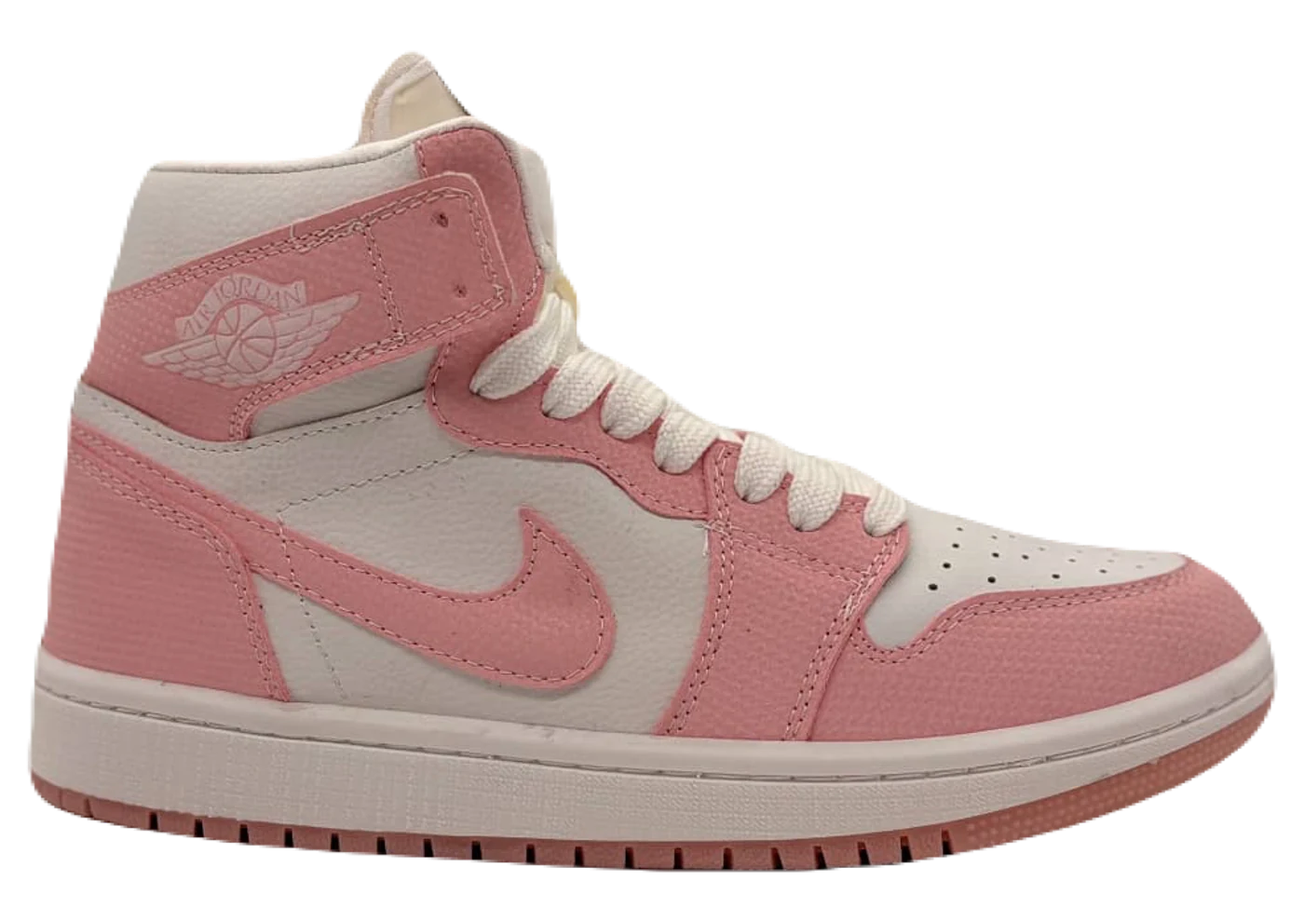
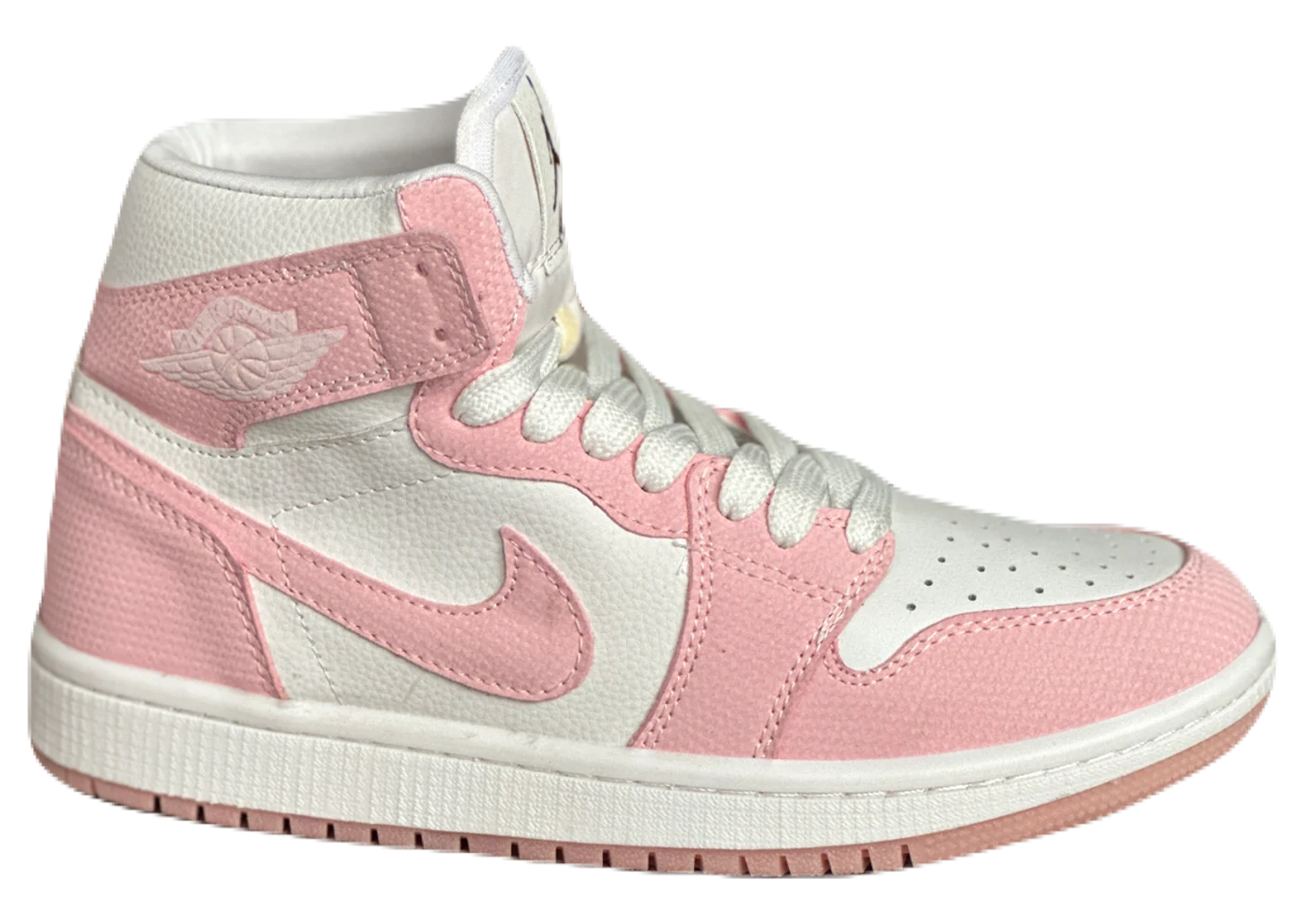
Swap the three hero shoes for the client's new shots
Jordan keeps its card with a cleaner shot of the same shoe; the
Cloudtilt and the V2K give way to a Golden Goose Super-Star and a
New Balance 530, with the labels and headings to match.

All three arrived as clean cut-outs — checked before use, since one
looked like it carried a baked dark background and that would have
put a black rectangle on the glass pane. It was the viewer drawing
transparency as black: measured, the alpha is 75-88% fully clear
with a fully opaque shoe and a thin feathered edge, and composited
on the pane's own white all three sit clean.

No change to make-hero-photos.js beyond the source list — the trim
and the common canvas handle these the same as the last three.

diff --git a/download-version/index.html b/download-version/index.html
@@ -604,16 +604,16 @@ Hero Area
                                 <div class="row align-items-center">
                                     <div class="col-lg-6">
                                         <div class="hero-style6">
-                                            <span class="sub-title" data-ani="slideinleft" data-ani-delay="0.2s">کتونی نایک وی۲کی ران</span>
+                                            <span class="sub-title" data-ani="slideinleft" data-ani-delay="0.2s">کتونی نیوبالانس ۵۳۰</span>
                                             <h1 class="hero-title" data-ani="slideinleft" data-ani-delay="0.4s">
-                                                کتونی نایک وی۲کی ران </h1>
+                                                کتونی نیوبالانس ۵۳۰ </h1>
                                             <div class="btn-group" data-ani="slideinup" data-ani-delay="0.7s"><a href="shop.html" class="th-btn th-icon">خرید کنید</a>
                                             </div>
                                         </div>
                                     </div>
                                     <div class="col-lg-6">
                                         <div class="hero-img" data-ani="slideinrighthero" data-ani-delay="0.8s">
-                                            <img src="assets/img/hero/vikyplus-hero-v2k.webp" alt="Image">
+                                            <img src="assets/img/hero/vikyplus-hero-nb530.webp" alt="Image">
                                             <div class="discount-wrapp style2">
                                                 <div class="discount-tag">
                                                     <svg class="vp-burst" viewBox="0 0 150 150" aria-hidden="true"><defs><linearGradient id="vp-burst-gold" x1="0" y1="0" x2="0" y2="1"><stop offset="0%" stop-color="#C0972F"></stop><stop offset="100%" stop-color="#E3B54A"></stop></linearGradient></defs><path fill="url(#vp-burst-gold)" d="M 75,3 C 80.73,3 85.7,14.57 92.19,16.47 C 98.67,18.38 109.11,11.33 113.93,14.43 C 118.75,17.53 116.67,29.94 121.1,35.05 C 125.53,40.16 138.11,39.88 140.49,45.09 C 142.87,50.3 134.42,59.63 135.38,66.32 C 136.34,73.01 147.08,79.58 146.27,85.25 C 145.45,90.92 133.3,94.19 130.49,100.34 C 127.68,106.49 133.17,117.82 129.41,122.15 C 125.66,126.48 113.67,122.66 107.98,126.32 C 102.29,129.97 100.78,142.47 95.28,144.08 C 89.79,145.7 81.76,136 75,136 C 68.24,136 60.21,145.7 54.72,144.08 C 49.22,142.47 47.71,129.97 42.02,126.32 C 36.33,122.66 24.34,126.48 20.59,122.15 C 16.83,117.82 22.32,106.49 19.51,100.34 C 16.7,94.19 4.55,90.92 3.73,85.25 C 2.92,79.58 13.66,73.01 14.62,66.32 C 15.58,59.63 7.13,50.3 9.51,45.09 C 11.89,39.88 24.47,40.16 28.9,35.05 C 33.33,29.94 31.25,17.53 36.07,14.43 C 40.89,11.33 51.33,18.38 57.81,16.47 C 64.3,14.57 69.27,3 75,3 Z"></path><text class="vp-burst-num" x="75" y="72">25%</text><text class="vp-burst-off" x="75" y="98">OFF</text></svg>
@@ -664,16 +664,16 @@ Hero Area
                                 <div class="row align-items-center">
                                     <div class="col-lg-6">
                                         <div class="hero-style6">
-                                            <span class="sub-title" data-ani="slideinleft" data-ani-delay="0.2s">کتونی اون کلادتیلت</span>
+                                            <span class="sub-title" data-ani="slideinleft" data-ani-delay="0.2s">کتونی گلدن گوز سوپراستار</span>
                                             <h1 class="hero-title" data-ani="slideinleft" data-ani-delay="0.4s">
-                                                کتونی اون کلادتیلت </h1>
+                                                کتونی گلدن گوز سوپراستار </h1>
                                             <div class="btn-group" data-ani="slideinup" data-ani-delay="0.7s"><a href="shop.html" class="th-btn th-icon">خرید کنید</a>
                                             </div>
                                         </div>
                                     </div>
                                     <div class="col-lg-6">
                                         <div class="hero-img" data-ani="slideinrighthero" data-ani-delay="0.8s">
-                                            <img src="assets/img/hero/vikyplus-hero-cloudtilt.webp" alt="Image">
+                                            <img src="assets/img/hero/vikyplus-hero-goldengoose.webp" alt="Image">
                                             <div class="discount-wrapp style2">
                                                 <div class="discount-tag">
                                                     <svg class="vp-burst" viewBox="0 0 150 150" aria-hidden="true"><defs><linearGradient id="vp-burst-gold" x1="0" y1="0" x2="0" y2="1"><stop offset="0%" stop-color="#C0972F"></stop><stop offset="100%" stop-color="#E3B54A"></stop></linearGradient></defs><path fill="url(#vp-burst-gold)" d="M 75,3 C 80.73,3 85.7,14.57 92.19,16.47 C 98.67,18.38 109.11,11.33 113.93,14.43 C 118.75,17.53 116.67,29.94 121.1,35.05 C 125.53,40.16 138.11,39.88 140.49,45.09 C 142.87,50.3 134.42,59.63 135.38,66.32 C 136.34,73.01 147.08,79.58 146.27,85.25 C 145.45,90.92 133.3,94.19 130.49,100.34 C 127.68,106.49 133.17,117.82 129.41,122.15 C 125.66,126.48 113.67,122.66 107.98,126.32 C 102.29,129.97 100.78,142.47 95.28,144.08 C 89.79,145.7 81.76,136 75,136 C 68.24,136 60.21,145.7 54.72,144.08 C 49.22,142.47 47.71,129.97 42.02,126.32 C 36.33,122.66 24.34,126.48 20.59,122.15 C 16.83,117.82 22.32,106.49 19.51,100.34 C 16.7,94.19 4.55,90.92 3.73,85.25 C 2.92,79.58 13.66,73.01 14.62,66.32 C 15.58,59.63 7.13,50.3 9.51,45.09 C 11.89,39.88 24.47,40.16 28.9,35.05 C 33.33,29.94 31.25,17.53 36.07,14.43 C 40.89,11.33 51.33,18.38 57.81,16.47 C 64.3,14.57 69.27,3 75,3 Z"></path><text class="vp-burst-num" x="75" y="72">25%</text><text class="vp-burst-off" x="75" y="98">OFF</text></svg>
@@ -694,16 +694,16 @@ Hero Area
                                 <div class="row align-items-center">
                                     <div class="col-lg-6">
                                         <div class="hero-style6">
-                                            <span class="sub-title" data-ani="slideinleft" data-ani-delay="0.2s">کتونی نایک وی۲کی ران</span>
+                                            <span class="sub-title" data-ani="slideinleft" data-ani-delay="0.2s">کتونی نیوبالانس ۵۳۰</span>
                                             <h1 class="hero-title" data-ani="slideinleft" data-ani-delay="0.4s">
-                                                کتونی نایک وی۲کی ران </h1>
+                                                کتونی نیوبالانس ۵۳۰ </h1>
                                             <div class="btn-group" data-ani="slideinup" data-ani-delay="0.7s"><a href="shop.html" class="th-btn th-icon">خرید کنید</a>
                                             </div>
                                         </div>
                                     </div>
                                     <div class="col-lg-6">
                                         <div class="hero-img" data-ani="slideinrighthero" data-ani-delay="0.8s">
-                                            <img src="assets/img/hero/vikyplus-hero-v2k.webp" alt="Image">
+                                            <img src="assets/img/hero/vikyplus-hero-nb530.webp" alt="Image">
                                             <div class="discount-wrapp style2">
                                                 <div class="discount-tag">
                                                     <svg class="vp-burst" viewBox="0 0 150 150" aria-hidden="true"><defs><linearGradient id="vp-burst-gold" x1="0" y1="0" x2="0" y2="1"><stop offset="0%" stop-color="#C0972F"></stop><stop offset="100%" stop-color="#E3B54A"></stop></linearGradient></defs><path fill="url(#vp-burst-gold)" d="M 75,3 C 80.73,3 85.7,14.57 92.19,16.47 C 98.67,18.38 109.11,11.33 113.93,14.43 C 118.75,17.53 116.67,29.94 121.1,35.05 C 125.53,40.16 138.11,39.88 140.49,45.09 C 142.87,50.3 134.42,59.63 135.38,66.32 C 136.34,73.01 147.08,79.58 146.27,85.25 C 145.45,90.92 133.3,94.19 130.49,100.34 C 127.68,106.49 133.17,117.82 129.41,122.15 C 125.66,126.48 113.67,122.66 107.98,126.32 C 102.29,129.97 100.78,142.47 95.28,144.08 C 89.79,145.7 81.76,136 75,136 C 68.24,136 60.21,145.7 54.72,144.08 C 49.22,142.47 47.71,129.97 42.02,126.32 C 36.33,122.66 24.34,126.48 20.59,122.15 C 16.83,117.82 22.32,106.49 19.51,100.34 C 16.7,94.19 4.55,90.92 3.73,85.25 C 2.92,79.58 13.66,73.01 14.62,66.32 C 15.58,59.63 7.13,50.3 9.51,45.09 C 11.89,39.88 24.47,40.16 28.9,35.05 C 33.33,29.94 31.25,17.53 36.07,14.43 C 40.89,11.33 51.33,18.38 57.81,16.47 C 64.3,14.57 69.27,3 75,3 Z"></path><text class="vp-burst-num" x="75" y="72">25%</text><text class="vp-burst-off" x="75" y="98">OFF</text></svg>
@@ -754,16 +754,16 @@ Hero Area
                                 <div class="row align-items-center">
                                     <div class="col-lg-6">
                                         <div class="hero-style6">
-                                            <span class="sub-title" data-ani="slideinleft" data-ani-delay="0.2s">کتونی اون کلادتیلت</span>
+                                            <span class="sub-title" data-ani="slideinleft" data-ani-delay="0.2s">کتونی گلدن گوز سوپراستار</span>
                                             <h1 class="hero-title" data-ani="slideinleft" data-ani-delay="0.4s">
-                                                کتونی اون کلادتیلت </h1>
+                                                کتونی گلدن گوز سوپراستار </h1>
                                             <div class="btn-group" data-ani="slideinup" data-ani-delay="0.7s"><a href="shop.html" class="th-btn th-icon">خرید کنید</a>
                                             </div>
                                         </div>
                                     </div>
                                     <div class="col-lg-6">
                                         <div class="hero-img" data-ani="slideinrighthero" data-ani-delay="0.8s">
-                                            <img src="assets/img/hero/vikyplus-hero-cloudtilt.webp" alt="Image">
+                                            <img src="assets/img/hero/vikyplus-hero-goldengoose.webp" alt="Image">
                                             <div class="discount-wrapp style2">
                                                 <div class="discount-tag">
                                                     <svg class="vp-burst" viewBox="0 0 150 150" aria-hidden="true"><defs><linearGradient id="vp-burst-gold" x1="0" y1="0" x2="0" y2="1"><stop offset="0%" stop-color="#C0972F"></stop><stop offset="100%" stop-color="#E3B54A"></stop></linearGradient></defs><path fill="url(#vp-burst-gold)" d="M 75,3 C 80.73,3 85.7,14.57 92.19,16.47 C 98.67,18.38 109.11,11.33 113.93,14.43 C 118.75,17.53 116.67,29.94 121.1,35.05 C 125.53,40.16 138.11,39.88 140.49,45.09 C 142.87,50.3 134.42,59.63 135.38,66.32 C 136.34,73.01 147.08,79.58 146.27,85.25 C 145.45,90.92 133.3,94.19 130.49,100.34 C 127.68,106.49 133.17,117.82 129.41,122.15 C 125.66,126.48 113.67,122.66 107.98,126.32 C 102.29,129.97 100.78,142.47 95.28,144.08 C 89.79,145.7 81.76,136 75,136 C 68.24,136 60.21,145.7 54.72,144.08 C 49.22,142.47 47.71,129.97 42.02,126.32 C 36.33,122.66 24.34,126.48 20.59,122.15 C 16.83,117.82 22.32,106.49 19.51,100.34 C 16.7,94.19 4.55,90.92 3.73,85.25 C 2.92,79.58 13.66,73.01 14.62,66.32 C 15.58,59.63 7.13,50.3 9.51,45.09 C 11.89,39.88 24.47,40.16 28.9,35.05 C 33.33,29.94 31.25,17.53 36.07,14.43 C 40.89,11.33 51.33,18.38 57.81,16.47 C 64.3,14.57 69.27,3 75,3 Z"></path><text class="vp-burst-num" x="75" y="72">25%</text><text class="vp-burst-off" x="75" y="98">OFF</text></svg>

diff --git a/download-version/shoe-shop-rtl.html b/download-version/shoe-shop-rtl.html
@@ -604,16 +604,16 @@ Hero Area
                                 <div class="row align-items-center">
                                     <div class="col-lg-6">
                                         <div class="hero-style6">
-                                            <span class="sub-title" data-ani="slideinleft" data-ani-delay="0.2s">کتونی نایک وی۲کی ران</span>
+                                            <span class="sub-title" data-ani="slideinleft" data-ani-delay="0.2s">کتونی نیوبالانس ۵۳۰</span>
                                             <h1 class="hero-title" data-ani="slideinleft" data-ani-delay="0.4s">
-                                                کتونی نایک وی۲کی ران </h1>
+                                                کتونی نیوبالانس ۵۳۰ </h1>
                                             <div class="btn-group" data-ani="slideinup" data-ani-delay="0.7s"><a href="shop.html" class="th-btn th-icon">خرید کنید</a>
                                             </div>
                                         </div>
                                     </div>
                                     <div class="col-lg-6">
                                         <div class="hero-img" data-ani="slideinrighthero" data-ani-delay="0.8s">
-                                            <img src="assets/img/hero/vikyplus-hero-v2k.webp" alt="Image">
+                                            <img src="assets/img/hero/vikyplus-hero-nb530.webp" alt="Image">
                                             <div class="discount-wrapp style2">
                                                 <div class="discount-tag">
                                                     <svg class="vp-burst" viewBox="0 0 150 150" aria-hidden="true"><defs><linearGradient id="vp-burst-gold" x1="0" y1="0" x2="0" y2="1"><stop offset="0%" stop-color="#C0972F"></stop><stop offset="100%" stop-color="#E3B54A"></stop></linearGradient></defs><path fill="url(#vp-burst-gold)" d="M 75,3 C 80.73,3 85.7,14.57 92.19,16.47 C 98.67,18.38 109.11,11.33 113.93,14.43 C 118.75,17.53 116.67,29.94 121.1,35.05 C 125.53,40.16 138.11,39.88 140.49,45.09 C 142.87,50.3 134.42,59.63 135.38,66.32 C 136.34,73.01 147.08,79.58 146.27,85.25 C 145.45,90.92 133.3,94.19 130.49,100.34 C 127.68,106.49 133.17,117.82 129.41,122.15 C 125.66,126.48 113.67,122.66 107.98,126.32 C 102.29,129.97 100.78,142.47 95.28,144.08 C 89.79,145.7 81.76,136 75,136 C 68.24,136 60.21,145.7 54.72,144.08 C 49.22,142.47 47.71,129.97 42.02,126.32 C 36.33,122.66 24.34,126.48 20.59,122.15 C 16.83,117.82 22.32,106.49 19.51,100.34 C 16.7,94.19 4.55,90.92 3.73,85.25 C 2.92,79.58 13.66,73.01 14.62,66.32 C 15.58,59.63 7.13,50.3 9.51,45.09 C 11.89,39.88 24.47,40.16 28.9,35.05 C 33.33,29.94 31.25,17.53 36.07,14.43 C 40.89,11.33 51.33,18.38 57.81,16.47 C 64.3,14.57 69.27,3 75,3 Z"></path><text class="vp-burst-num" x="75" y="72">25%</text><text class="vp-burst-off" x="75" y="98">OFF</text></svg>
@@ -664,16 +664,16 @@ Hero Area
                                 <div class="row align-items-center">
                                     <div class="col-lg-6">
                                         <div class="hero-style6">
-                                            <span class="sub-title" data-ani="slideinleft" data-ani-delay="0.2s">کتونی اون کلادتیلت</span>
+                                            <span class="sub-title" data-ani="slideinleft" data-ani-delay="0.2s">کتونی گلدن گوز سوپراستار</span>
                                             <h1 class="hero-title" data-ani="slideinleft" data-ani-delay="0.4s">
-                                                کتونی اون کلادتیلت </h1>
+                                                کتونی گلدن گوز سوپراستار </h1>
                                             <div class="btn-group" data-ani="slideinup" data-ani-delay="0.7s"><a href="shop.html" class="th-btn th-icon">خرید کنید</a>
                                             </div>
                                         </div>
                                     </div>
                                     <div class="col-lg-6">
                                         <div class="hero-img" data-ani="slideinrighthero" data-ani-delay="0.8s">
-                                            <img src="assets/img/hero/vikyplus-hero-cloudtilt.webp" alt="Image">
+                                            <img src="assets/img/hero/vikyplus-hero-goldengoose.webp" alt="Image">
                                             <div class="discount-wrapp style2">
                                                 <div class="discount-tag">
                                                     <svg class="vp-burst" viewBox="0 0 150 150" aria-hidden="true"><defs><linearGradient id="vp-burst-gold" x1="0" y1="0" x2="0" y2="1"><stop offset="0%" stop-color="#C0972F"></stop><stop offset="100%" stop-color="#E3B54A"></stop></linearGradient></defs><path fill="url(#vp-burst-gold)" d="M 75,3 C 80.73,3 85.7,14.57 92.19,16.47 C 98.67,18.38 109.11,11.33 113.93,14.43 C 118.75,17.53 116.67,29.94 121.1,35.05 C 125.53,40.16 138.11,39.88 140.49,45.09 C 142.87,50.3 134.42,59.63 135.38,66.32 C 136.34,73.01 147.08,79.58 146.27,85.25 C 145.45,90.92 133.3,94.19 130.49,100.34 C 127.68,106.49 133.17,117.82 129.41,122.15 C 125.66,126.48 113.67,122.66 107.98,126.32 C 102.29,129.97 100.78,142.47 95.28,144.08 C 89.79,145.7 81.76,136 75,136 C 68.24,136 60.21,145.7 54.72,144.08 C 49.22,142.47 47.71,129.97 42.02,126.32 C 36.33,122.66 24.34,126.48 20.59,122.15 C 16.83,117.82 22.32,106.49 19.51,100.34 C 16.7,94.19 4.55,90.92 3.73,85.25 C 2.92,79.58 13.66,73.01 14.62,66.32 C 15.58,59.63 7.13,50.3 9.51,45.09 C 11.89,39.88 24.47,40.16 28.9,35.05 C 33.33,29.94 31.25,17.53 36.07,14.43 C 40.89,11.33 51.33,18.38 57.81,16.47 C 64.3,14.57 69.27,3 75,3 Z"></path><text class="vp-burst-num" x="75" y="72">25%</text><text class="vp-burst-off" x="75" y="98">OFF</text></svg>
@@ -694,16 +694,16 @@ Hero Area
                                 <div class="row align-items-center">
                                     <div class="col-lg-6">
                                         <div class="hero-style6">
-                                            <span class="sub-title" data-ani="slideinleft" data-ani-delay="0.2s">کتونی نایک وی۲کی ران</span>
+                                            <span class="sub-title" data-ani="slideinleft" data-ani-delay="0.2s">کتونی نیوبالانس ۵۳۰</span>
                                             <h1 class="hero-title" data-ani="slideinleft" data-ani-delay="0.4s">
-                                                کتونی نایک وی۲کی ران </h1>
+                                                کتونی نیوبالانس ۵۳۰ </h1>
                                             <div class="btn-group" data-ani="slideinup" data-ani-delay="0.7s"><a href="shop.html" class="th-btn th-icon">خرید کنید</a>
                                             </div>
                                         </div>
                                     </div>
                                     <div class="col-lg-6">
                                         <div class="hero-img" data-ani="slideinrighthero" data-ani-delay="0.8s">
-                                            <img src="assets/img/hero/vikyplus-hero-v2k.webp" alt="Image">
+                                            <img src="assets/img/hero/vikyplus-hero-nb530.webp" alt="Image">
                                             <div class="discount-wrapp style2">
                                                 <div class="discount-tag">
                                                     <svg class="vp-burst" viewBox="0 0 150 150" aria-hidden="true"><defs><linearGradient id="vp-burst-gold" x1="0" y1="0" x2="0" y2="1"><stop offset="0%" stop-color="#C0972F"></stop><stop offset="100%" stop-color="#E3B54A"></stop></linearGradient></defs><path fill="url(#vp-burst-gold)" d="M 75,3 C 80.73,3 85.7,14.57 92.19,16.47 C 98.67,18.38 109.11,11.33 113.93,14.43 C 118.75,17.53 116.67,29.94 121.1,35.05 C 125.53,40.16 138.11,39.88 140.49,45.09 C 142.87,50.3 134.42,59.63 135.38,66.32 C 136.34,73.01 147.08,79.58 146.27,85.25 C 145.45,90.92 133.3,94.19 130.49,100.34 C 127.68,106.49 133.17,117.82 129.41,122.15 C 125.66,126.48 113.67,122.66 107.98,126.32 C 102.29,129.97 100.78,142.47 95.28,144.08 C 89.79,145.7 81.76,136 75,136 C 68.24,136 60.21,145.7 54.72,144.08 C 49.22,142.47 47.71,129.97 42.02,126.32 C 36.33,122.66 24.34,126.48 20.59,122.15 C 16.83,117.82 22.32,106.49 19.51,100.34 C 16.7,94.19 4.55,90.92 3.73,85.25 C 2.92,79.58 13.66,73.01 14.62,66.32 C 15.58,59.63 7.13,50.3 9.51,45.09 C 11.89,39.88 24.47,40.16 28.9,35.05 C 33.33,29.94 31.25,17.53 36.07,14.43 C 40.89,11.33 51.33,18.38 57.81,16.47 C 64.3,14.57 69.27,3 75,3 Z"></path><text class="vp-burst-num" x="75" y="72">25%</text><text class="vp-burst-off" x="75" y="98">OFF</text></svg>
@@ -754,16 +754,16 @@ Hero Area
                                 <div class="row align-items-center">
                                     <div class="col-lg-6">
                                         <div class="hero-style6">
-                                            <span class="sub-title" data-ani="slideinleft" data-ani-delay="0.2s">کتونی اون کلادتیلت</span>
+                                            <span class="sub-title" data-ani="slideinleft" data-ani-delay="0.2s">کتونی گلدن گوز سوپراستار</span>
                                             <h1 class="hero-title" data-ani="slideinleft" data-ani-delay="0.4s">
-                                                کتونی اون کلادتیلت </h1>
+                                                کتونی گلدن گوز سوپراستار </h1>
                                             <div class="btn-group" data-ani="slideinup" data-ani-delay="0.7s"><a href="shop.html" class="th-btn th-icon">خرید کنید</a>
                                             </div>
                                         </div>
                                     </div>
                                     <div class="col-lg-6">
                                         <div class="hero-img" data-ani="slideinrighthero" data-ani-delay="0.8s">
-                                            <img src="assets/img/hero/vikyplus-hero-cloudtilt.webp" alt="Image">
+                                            <img src="assets/img/hero/vikyplus-hero-goldengoose.webp" alt="Image">
                                             <div class="discount-wrapp style2">
                                                 <div class="discount-tag">
                                                     <svg class="vp-burst" viewBox="0 0 150 150" aria-hidden="true"><defs><linearGradient id="vp-burst-gold" x1="0" y1="0" x2="0" y2="1"><stop offset="0%" stop-color="#C0972F"></stop><stop offset="100%" stop-color="#E3B54A"></stop></linearGradient></defs><path fill="url(#vp-burst-gold)" d="M 75,3 C 80.73,3 85.7,14.57 92.19,16.47 C 98.67,18.38 109.11,11.33 113.93,14.43 C 118.75,17.53 116.67,29.94 121.1,35.05 C 125.53,40.16 138.11,39.88 140.49,45.09 C 142.87,50.3 134.42,59.63 135.38,66.32 C 136.34,73.01 147.08,79.58 146.27,85.25 C 145.45,90.92 133.3,94.19 130.49,100.34 C 127.68,106.49 133.17,117.82 129.41,122.15 C 125.66,126.48 113.67,122.66 107.98,126.32 C 102.29,129.97 100.78,142.47 95.28,144.08 C 89.79,145.7 81.76,136 75,136 C 68.24,136 60.21,145.7 54.72,144.08 C 49.22,142.47 47.71,129.97 42.02,126.32 C 36.33,122.66 24.34,126.48 20.59,122.15 C 16.83,117.82 22.32,106.49 19.51,100.34 C 16.7,94.19 4.55,90.92 3.73,85.25 C 2.92,79.58 13.66,73.01 14.62,66.32 C 15.58,59.63 7.13,50.3 9.51,45.09 C 11.89,39.88 24.47,40.16 28.9,35.05 C 33.33,29.94 31.25,17.53 36.07,14.43 C 40.89,11.33 51.33,18.38 57.81,16.47 C 64.3,14.57 69.27,3 75,3 Z"></path><text class="vp-burst-num" x="75" y="72">25%</text><text class="vp-burst-off" x="75" y="98">OFF</text></svg>

diff --git a/theme/make-rtl-page.js b/theme/make-rtl-page.js
@@ -80,15 +80,15 @@ for (const [from, to] of Object.entries(SVG_GOLD)) {
 // Non-breaking spaces bind each half of the Jordan's name, so it breaks in one
 // place only: 'کتونی جردن' over 'وان ایر'. See the <br> pass further down.
 const HERO_TITLES = {
-  hero_6_1: 'کتونی نایک وی۲کی ران',
+  hero_6_1: 'کتونی نیوبالانس ۵۳۰',
   hero_6_2: 'کتونی\u00A0جردن وان\u00A0ایر',
-  hero_6_3: 'کتونی اون کلادتیلت',
+  hero_6_3: 'کتونی گلدن گوز سوپراستار',
 };
 
 const HERO_PHOTOS = {
-  hero_6_1: 'vikyplus-hero-v2k.webp',
+  hero_6_1: 'vikyplus-hero-nb530.webp',
   hero_6_2: 'vikyplus-hero-jordan.webp',
-  hero_6_3: 'vikyplus-hero-cloudtilt.webp',
+  hero_6_3: 'vikyplus-hero-goldengoose.webp',
 };
 
 // One match per slide: the label, the heading and the photograph are rewritten

diff --git a/theme/make-hero-photos.js b/theme/make-hero-photos.js
@@ -51,7 +51,7 @@ const H = 990;
 // and the toe are the extremes and they should not sit hard against the crop.
 const INSET = 0.96;
 
-const SOURCES = ['jordan', 'cloudtilt', 'v2k'];
+const SOURCES = ['jordan', 'goldengoose', 'nb530'];
 
 // Anything at or below this is background, not shoe. The cut-outs carry a
 // feathered edge, so a strict `> 0` would keep a rim of near-invisible pixels
